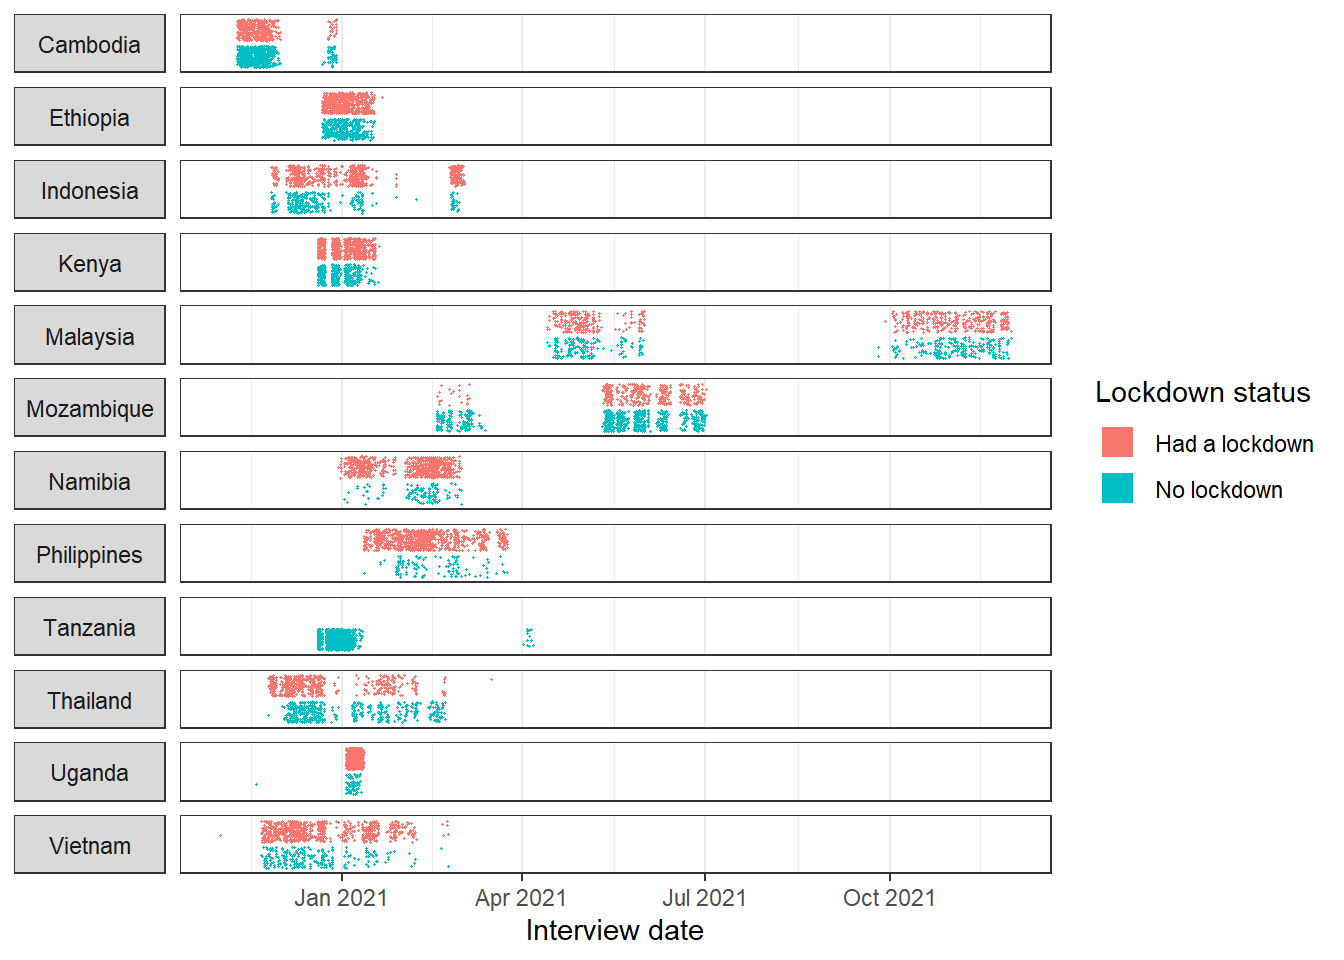
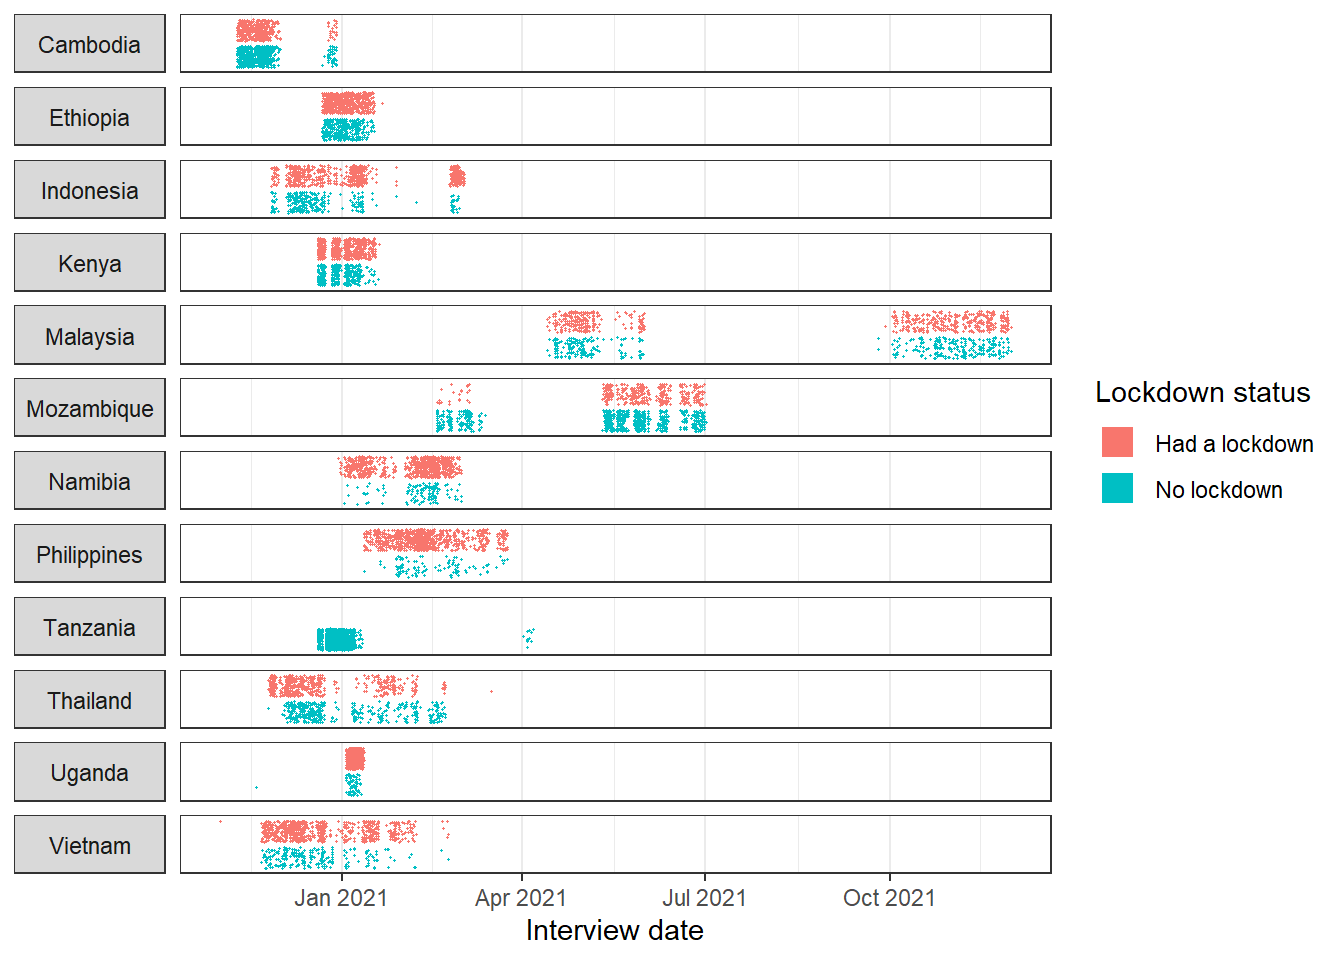
Save lockdown & interview time plot separately

diff --git a/descriptives_report.html b/descriptives_report.html
@@ -786,7 +786,7 @@ Attaching package: 'scales'</code></pre>
 <span id="cb41-33"><a href="#cb41-33" aria-hidden="true" tabindex="-1"></a>    <span class="st">"13"</span> <span class="sc">~</span> <span class="st">"Vietnam"</span></span>
 <span id="cb41-34"><a href="#cb41-34" aria-hidden="true" tabindex="-1"></a>))</span>
 <span id="cb41-35"><a href="#cb41-35" aria-hidden="true" tabindex="-1"></a></span>
-<span id="cb41-36"><a href="#cb41-36" aria-hidden="true" tabindex="-1"></a><span class="fu">ggplot</span>(plot_data, <span class="fu">aes</span>(<span class="at">x =</span> intStartTime, <span class="at">y =</span> CO2, <span class="at">colour =</span> CO2)) <span class="sc">+</span></span>
+<span id="cb41-36"><a href="#cb41-36" aria-hidden="true" tabindex="-1"></a>lockdown_time_plot <span class="ot">&lt;-</span> <span class="fu">ggplot</span>(plot_data, <span class="fu">aes</span>(<span class="at">x =</span> intStartTime, <span class="at">y =</span> CO2, <span class="at">colour =</span> CO2)) <span class="sc">+</span></span>
 <span id="cb41-37"><a href="#cb41-37" aria-hidden="true" tabindex="-1"></a>    <span class="fu">geom_jitter</span>(<span class="at">size =</span> <span class="fl">0.2</span>) <span class="sc">+</span></span>
 <span id="cb41-38"><a href="#cb41-38" aria-hidden="true" tabindex="-1"></a>    <span class="fu">scale_y_discrete</span>(<span class="at">labels =</span> <span class="fu">c</span>(<span class="st">"No lockdown"</span>, <span class="st">"Had a lockdown"</span>)) <span class="sc">+</span></span>
 <span id="cb41-39"><a href="#cb41-39" aria-hidden="true" tabindex="-1"></a>    <span class="fu">scale_colour_manual</span>(<span class="at">breaks =</span> <span class="fu">c</span>(<span class="dv">1</span>, <span class="dv">0</span>), <span class="at">labels =</span> <span class="fu">c</span>(<span class="st">"Had a lockdown"</span>, <span class="st">"No lockdown"</span>), <span class="at">values =</span> <span class="fu">c</span>(<span class="st">"#f8766d"</span>, <span class="st">"#00bfc4"</span>)) <span class="sc">+</span></span>
@@ -794,10 +794,20 @@ Attaching package: 'scales'</code></pre>
 <span id="cb41-41"><a href="#cb41-41" aria-hidden="true" tabindex="-1"></a>    <span class="fu">facet_grid</span>(COUNTRY <span class="sc">~</span> ., <span class="at">switch =</span> <span class="st">"y"</span>) <span class="sc">+</span></span>
 <span id="cb41-42"><a href="#cb41-42" aria-hidden="true" tabindex="-1"></a>    <span class="fu">guides</span>(<span class="at">colour =</span> <span class="fu">guide_legend</span>(<span class="at">override.aes =</span> <span class="fu">list</span>(<span class="at">shape =</span> <span class="dv">15</span>, <span class="at">size =</span> <span class="dv">5</span>))) <span class="sc">+</span></span>
 <span id="cb41-43"><a href="#cb41-43" aria-hidden="true" tabindex="-1"></a>    <span class="fu">theme_bw</span>() <span class="sc">+</span></span>
-<span id="cb41-44"><a href="#cb41-44" aria-hidden="true" tabindex="-1"></a>    <span class="fu">theme</span>(<span class="at">axis.title.y =</span> <span class="fu">element_blank</span>(), <span class="at">axis.text.y =</span> <span class="fu">element_blank</span>(), <span class="at">axis.ticks.y =</span> <span class="fu">element_blank</span>(), <span class="at">strip.text.y.left =</span> <span class="fu">element_text</span>(<span class="at">angle =</span> <span class="dv">0</span>), <span class="at">panel.grid.major.y =</span> <span class="fu">element_blank</span>(), <span class="at">panel.grid.minor.y =</span> <span class="fu">element_blank</span>(), <span class="at">strip.placement =</span> <span class="st">"outside"</span>)</span></code><button title="Copy to Clipboard" class="code-copy-button"><i class="bi"></i></button></pre></div>
+<span id="cb41-44"><a href="#cb41-44" aria-hidden="true" tabindex="-1"></a>    <span class="fu">theme</span>(<span class="at">axis.title.y =</span> <span class="fu">element_blank</span>(), <span class="at">axis.text.y =</span> <span class="fu">element_blank</span>(), <span class="at">axis.ticks.y =</span> <span class="fu">element_blank</span>(), <span class="at">strip.text.y.left =</span> <span class="fu">element_text</span>(<span class="at">angle =</span> <span class="dv">0</span>), <span class="at">panel.grid.major.y =</span> <span class="fu">element_blank</span>(), <span class="at">panel.grid.minor.y =</span> <span class="fu">element_blank</span>(), <span class="at">strip.placement =</span> <span class="st">"outside"</span>)</span>
+<span id="cb41-45"><a href="#cb41-45" aria-hidden="true" tabindex="-1"></a></span>
+<span id="cb41-46"><a href="#cb41-46" aria-hidden="true" tabindex="-1"></a>lockdown_time_plot</span></code><button title="Copy to Clipboard" class="code-copy-button"><i class="bi"></i></button></pre></div>
 </details>
 <div class="cell-output-display">
 <p><img src="descriptives_report_files/figure-html/lockdown_time_plot-1.png" class="img-fluid" width="672"></p>
+</div>
+<details>
+<summary>Code</summary>
+<div class="sourceCode cell-code" id="cb42"><pre class="sourceCode r code-with-copy"><code class="sourceCode r"><span id="cb42-1"><a href="#cb42-1" aria-hidden="true" tabindex="-1"></a><span class="co"># Saving plot as figure</span></span>
+<span id="cb42-2"><a href="#cb42-2" aria-hidden="true" tabindex="-1"></a><span class="fu">ggsave</span>(<span class="st">"lockdown_time_plot.png"</span>, lockdown_time_plot, <span class="at">dpi =</span> <span class="dv">600</span>)</span></code><button title="Copy to Clipboard" class="code-copy-button"><i class="bi"></i></button></pre></div>
+</details>
+<div class="cell-output cell-output-stderr">
+<pre><code>Saving 7 x 5 in image</code></pre>
 </div>
 </div>
 </section>
